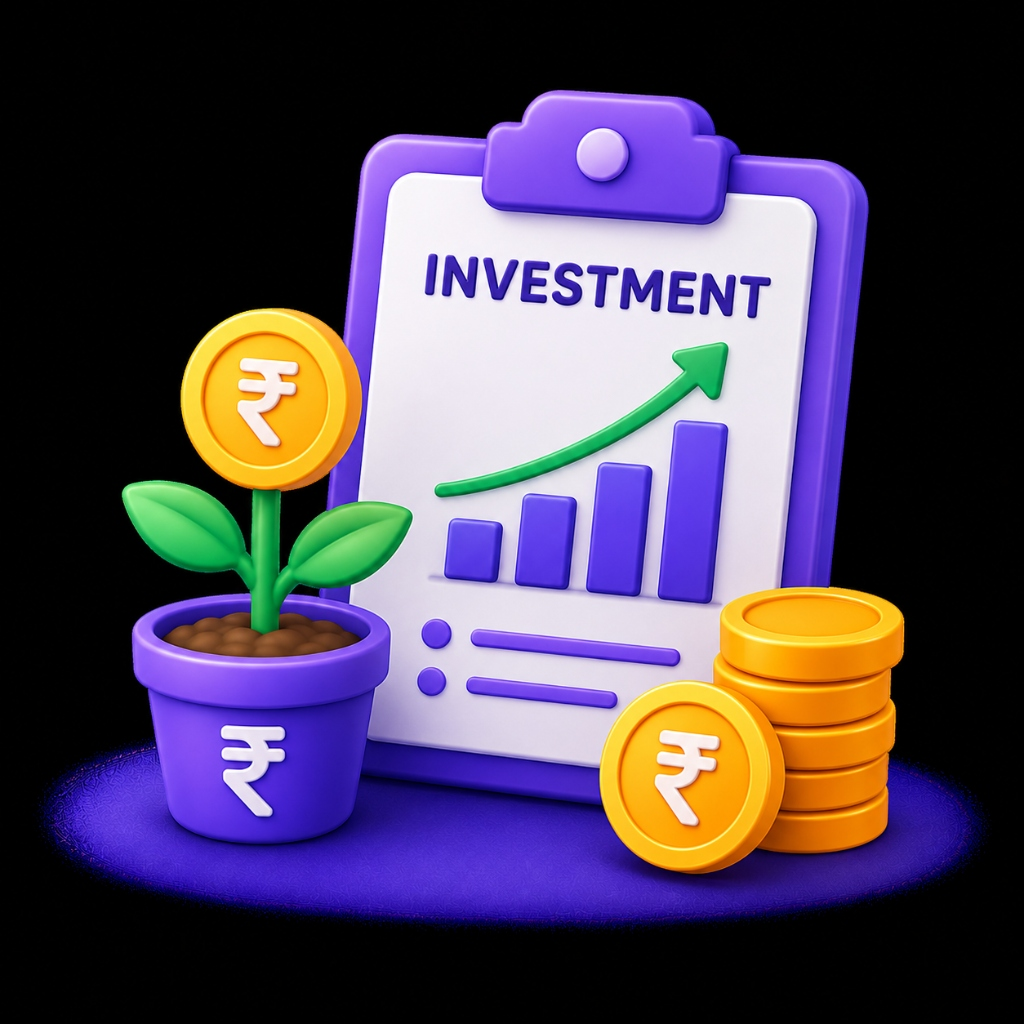
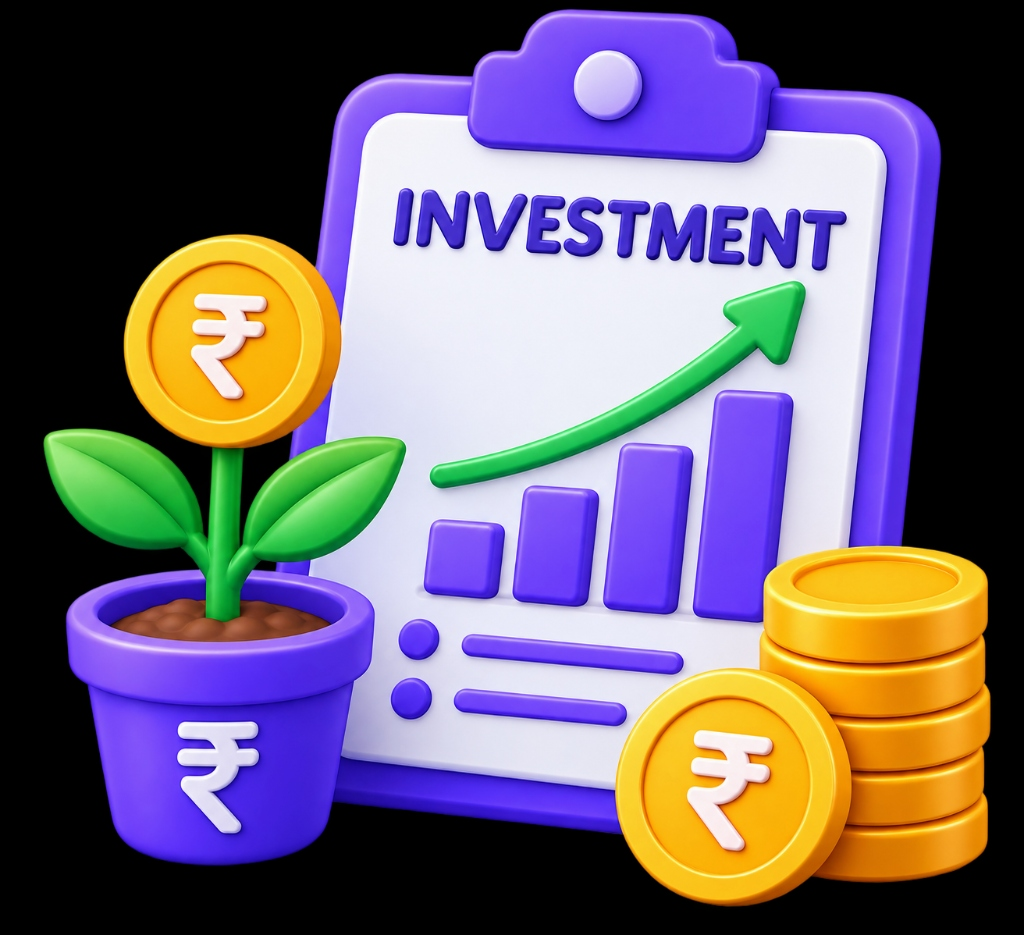
Replace freelance and investment emojis

diff --git a/index.html b/index.html
@@ -7107,7 +7107,7 @@
       utility: '<img src="emojis/utilities.png" class="emoji-icon" alt="utility" />', 
       occasions: '<img src="emojis/occasions.png" class="emoji-icon" alt="occasions" />', 
       salary: '<img src="emojis/salary.png" class="emoji-icon" alt="salary" />', 
-      freelance: '<img src="emojis/freelance.jpg" class="emoji-icon" alt="freelance" />', 
+      freelance: '<img src="emojis/freelance.png" class="emoji-icon" alt="freelance" />', 
       investment: '<img src="emojis/investment.jpg" class="emoji-icon" alt="investment" />', 
       stationery: '<img src="emojis/stationery.png" class="emoji-icon" alt="stationery" />', 
       other: '<img src="emojis/other.png" class="emoji-icon" alt="other" />' 
